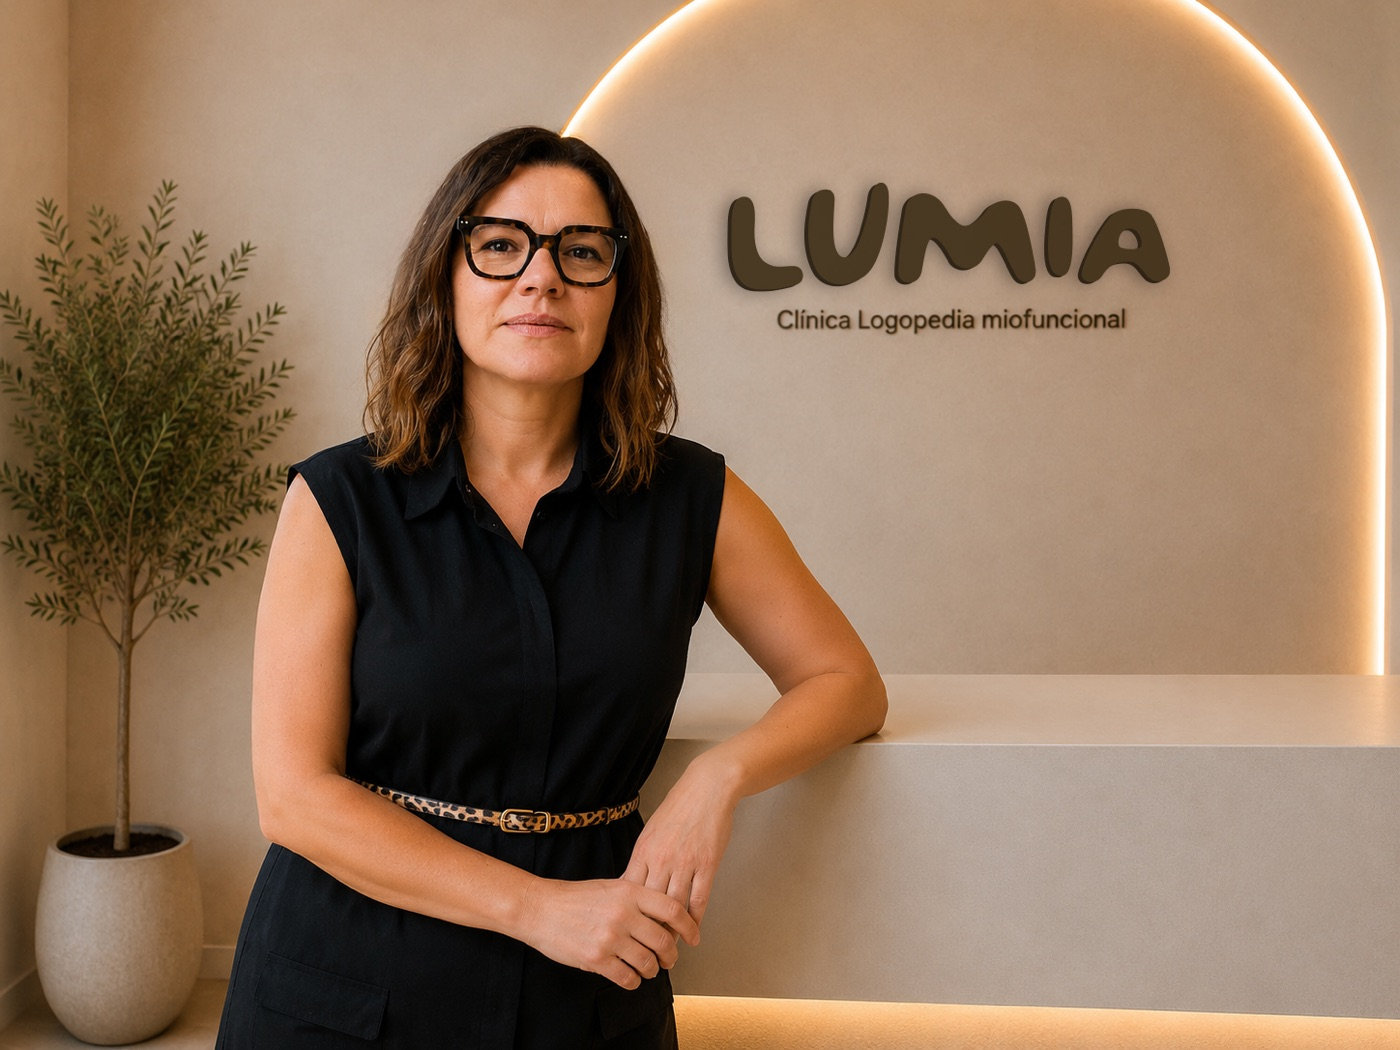
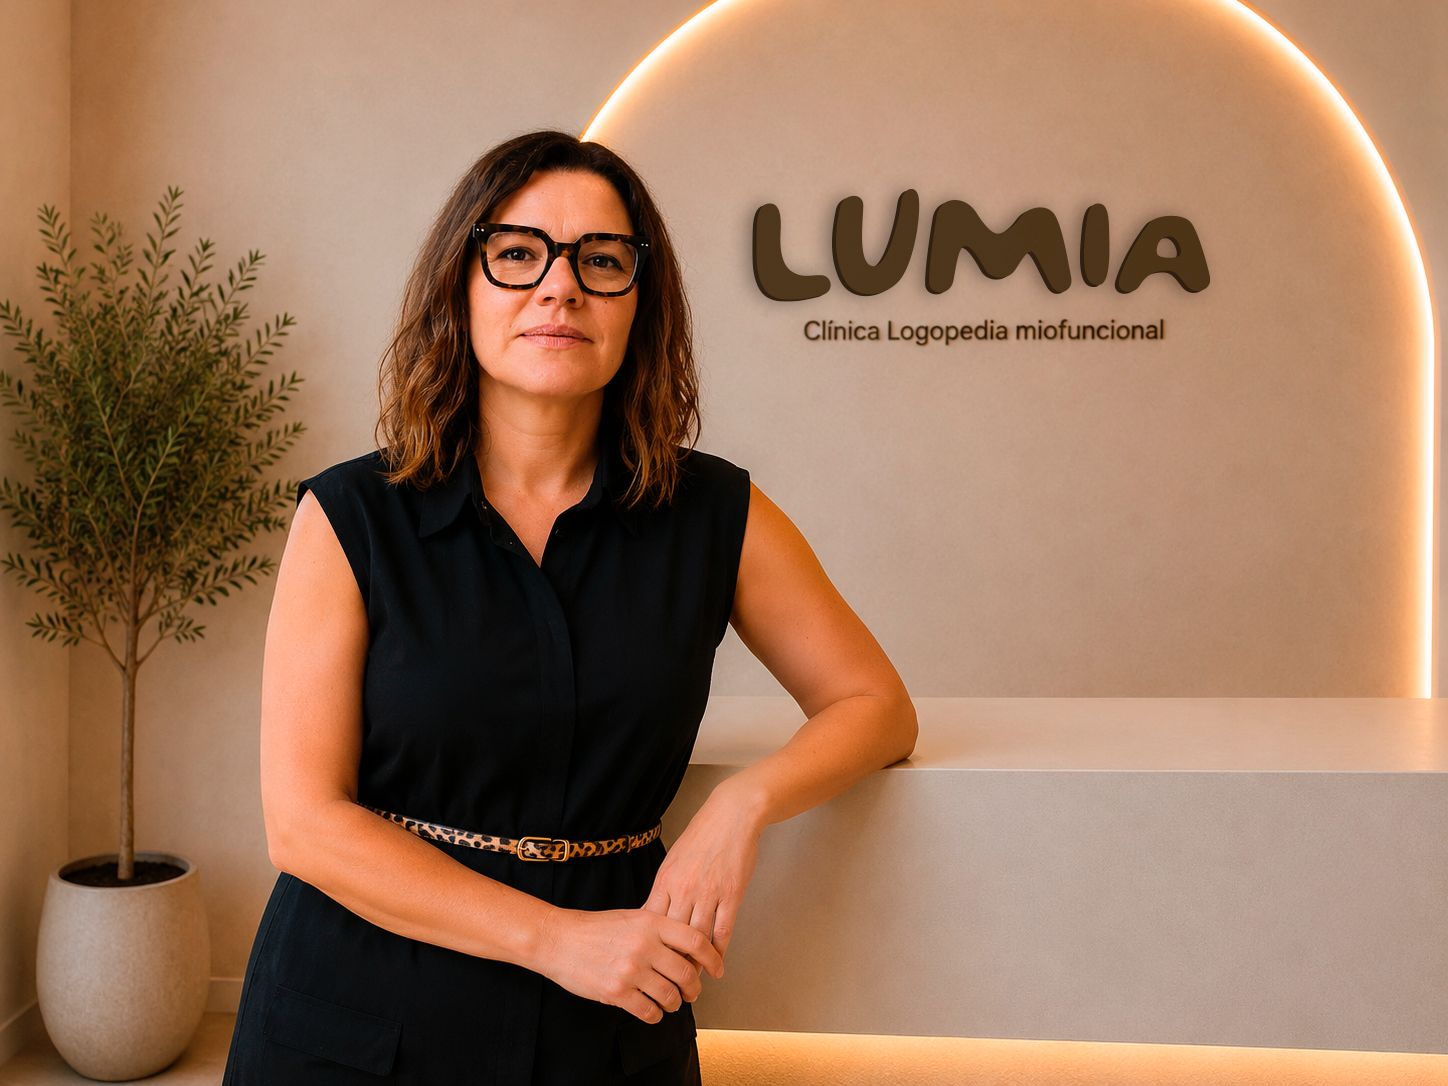
Actualizar las fotos de Patricia del carrusel de la home

diff --git a/apps/web/app/page.tsx b/apps/web/app/page.tsx
@@ -11,7 +11,7 @@ import { isPending, nearbyTowns, site } from "@/lib/site";
 
 const clinicPhotos = [
   { src: "/clinica-01.jpg", alt: "Recepción de la clínica LUMIA en Xàtiva" },
-  { src: "/clinica-02.jpg", alt: "Sala de tratamiento de la clínica LUMIA" },
+  { src: "/clinica-02.jpg", alt: "Patricia Hernán en la clínica LUMIA" },
 ];
 
 const instagramSlots = ["uno", "dos", "tres", "cuatro"];
